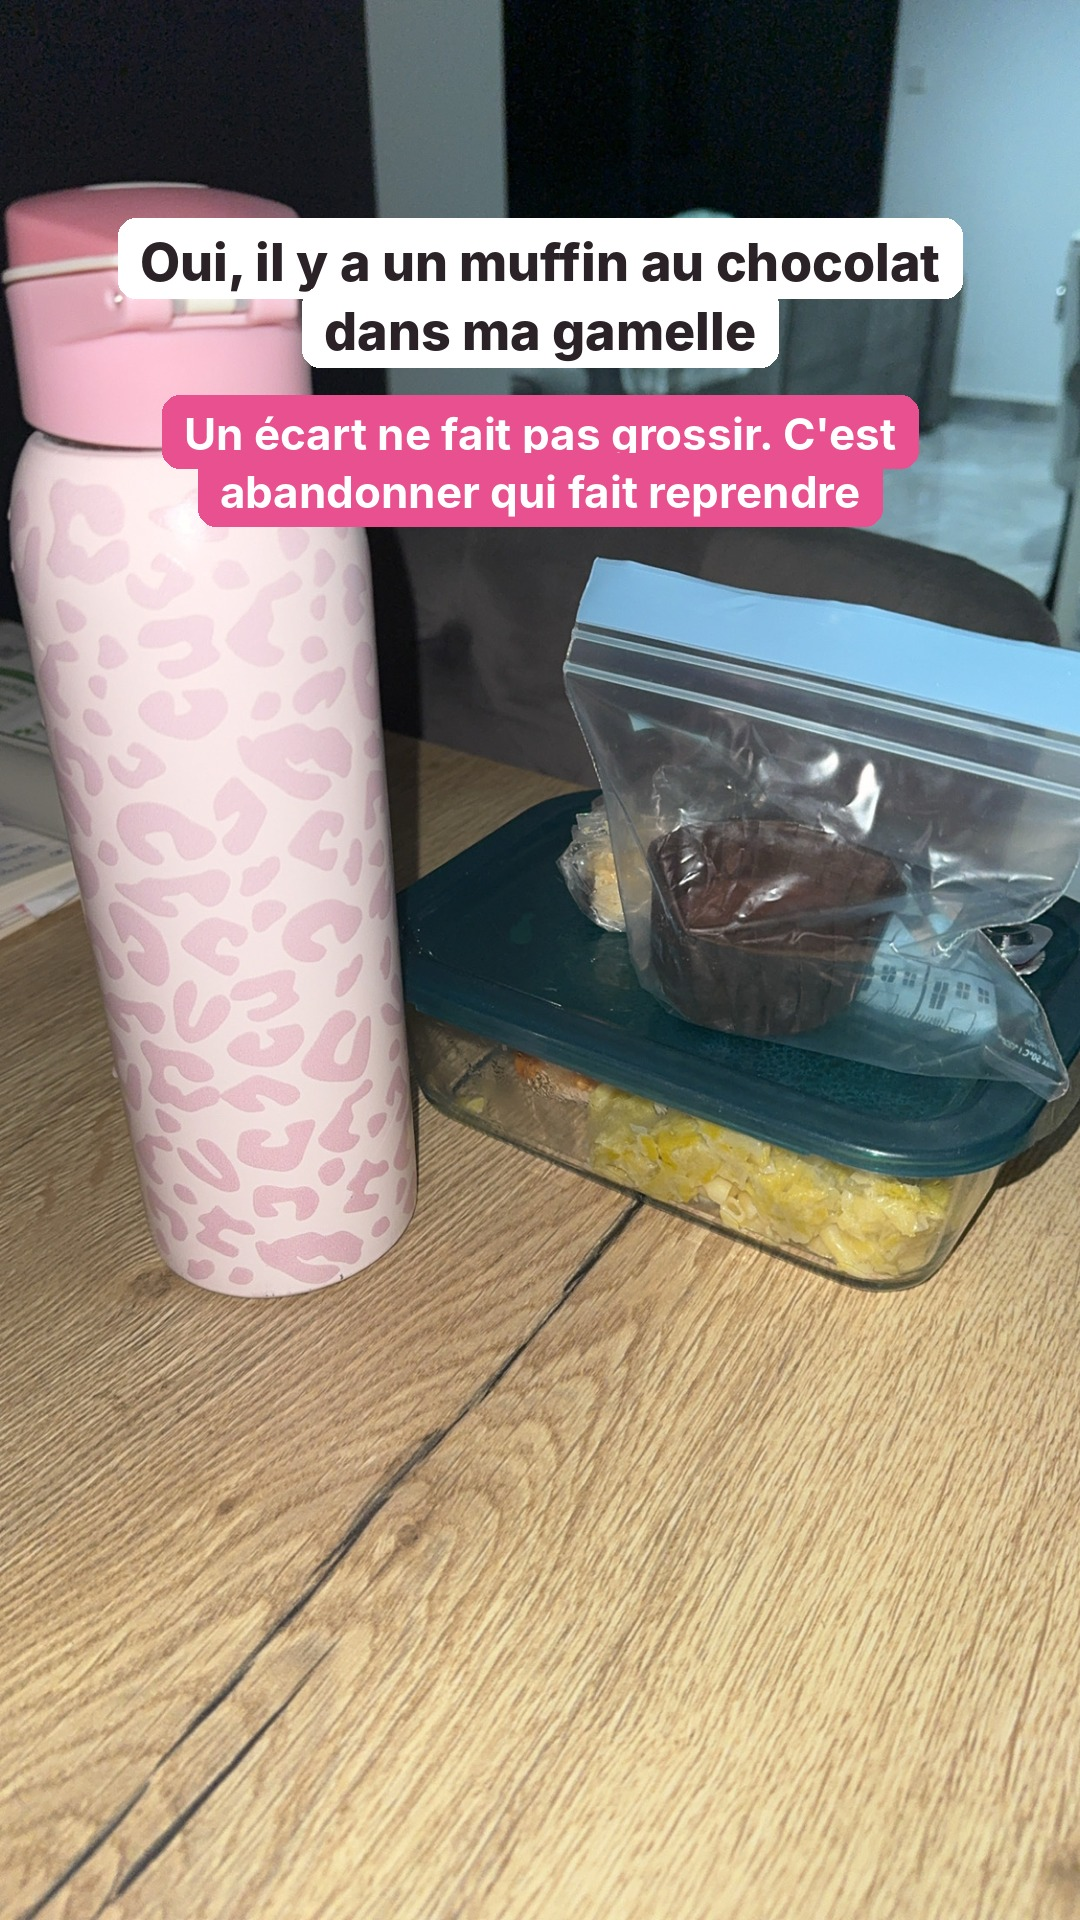
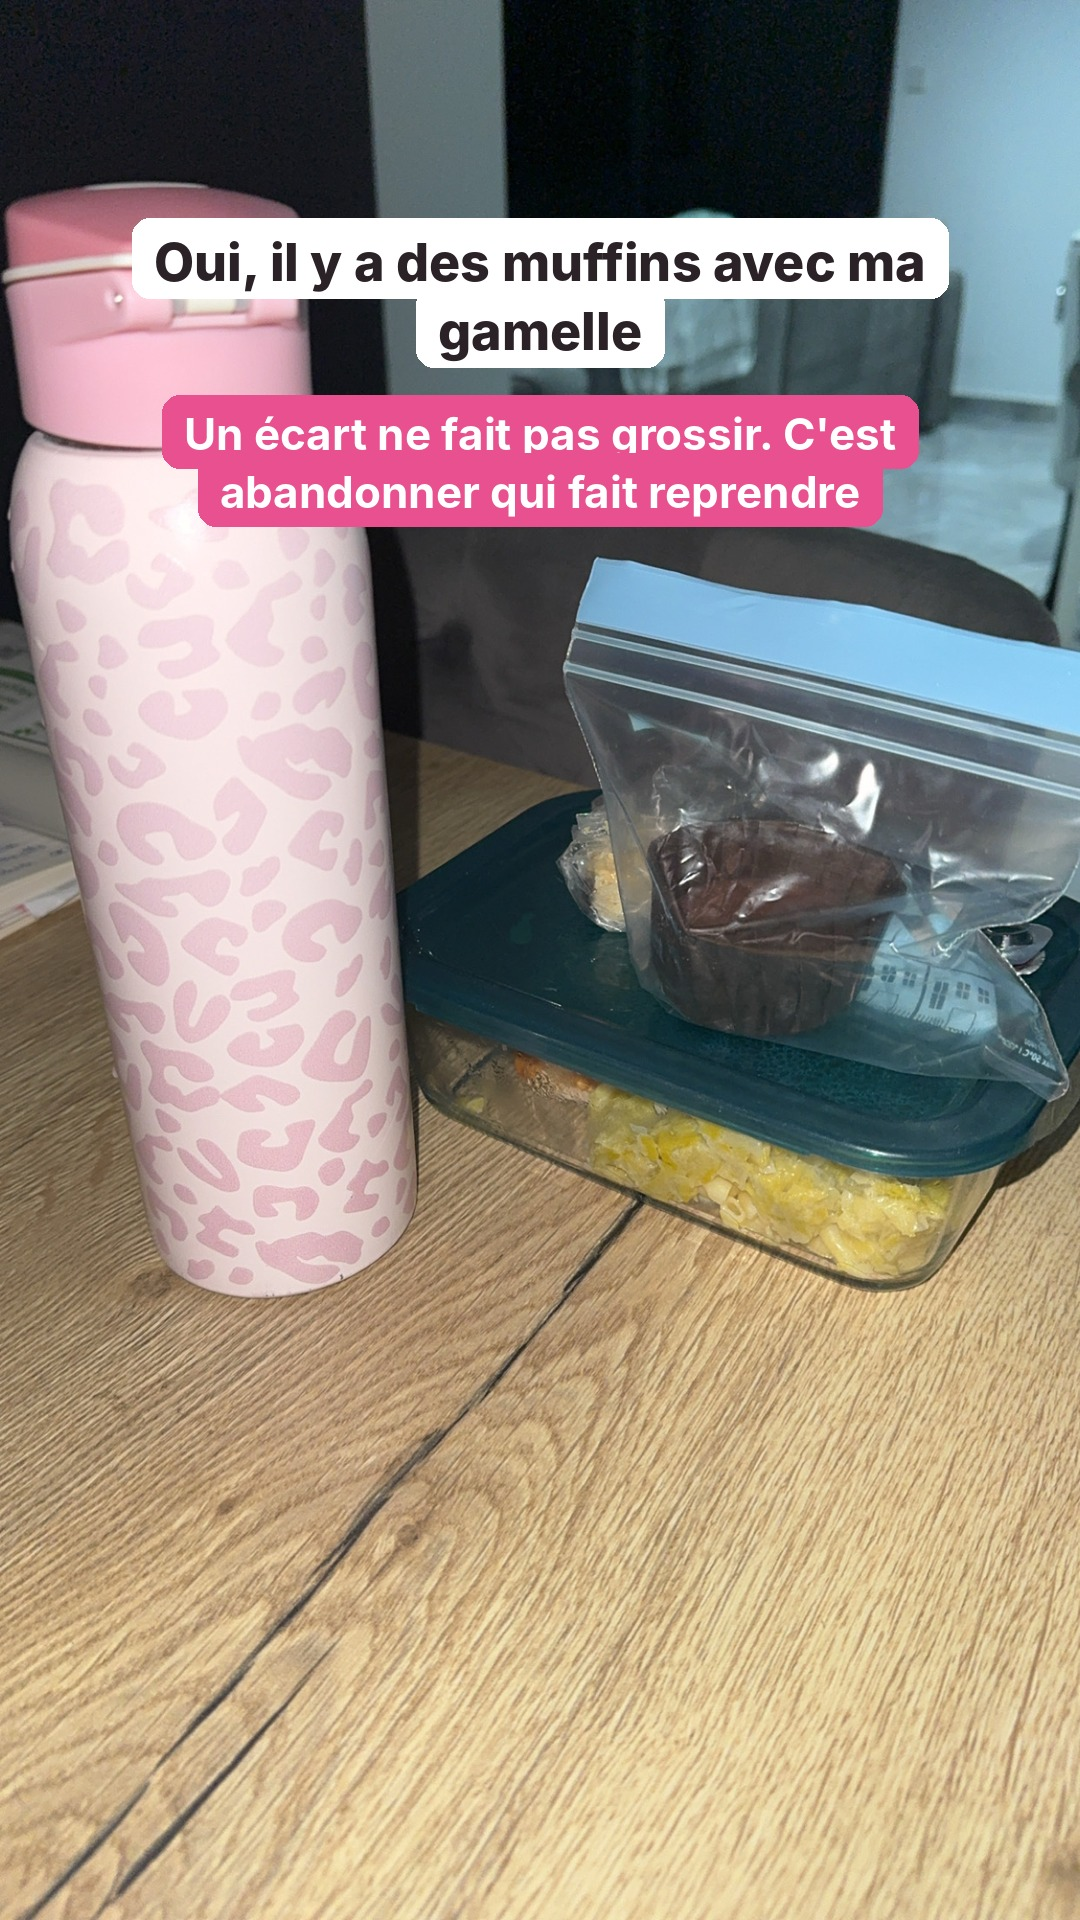
Story 4 : des muffins avec ma gamelle
Claude-Session: https://claude.ai/code/session_01Qu7Kbk7XztmX7tXcsqwXcr

Changed region(s): [[0.0917, 0.0938, 0.9167, 0.2188]]

diff --git a/contenus/2026-11-24_stories_lifestyle_photos/contenu.py b/contenus/2026-11-24_stories_lifestyle_photos/contenu.py
@@ -11,7 +11,7 @@ STORIES = [
     ("Mes dîners de la semaine sont prêts", 50, "white"),
     ("On dit que manger le soir fait grossir… Faux : c'est ta journée entière qui compte.", 44, "pink", "b")]},
  {"photo": P + "8_gamelle_muffin.jpg", "y": 230, "blocs": [
-    ("Oui, il y a un muffin au chocolat dans ma gamelle", 52, "white"),
+    ("Oui, il y a des muffins avec ma gamelle", 52, "white"),
     ("Un écart ne fait pas grossir. C'est abandonner qui fait reprendre", 44, "pink", "b")]},
  {"photo": P + "6_selfie_rose.jpg", "y": 1450, "focus": 0.35, "blocs": [
     ("Laquelle tu croyais encore ?", 56, "white"),
